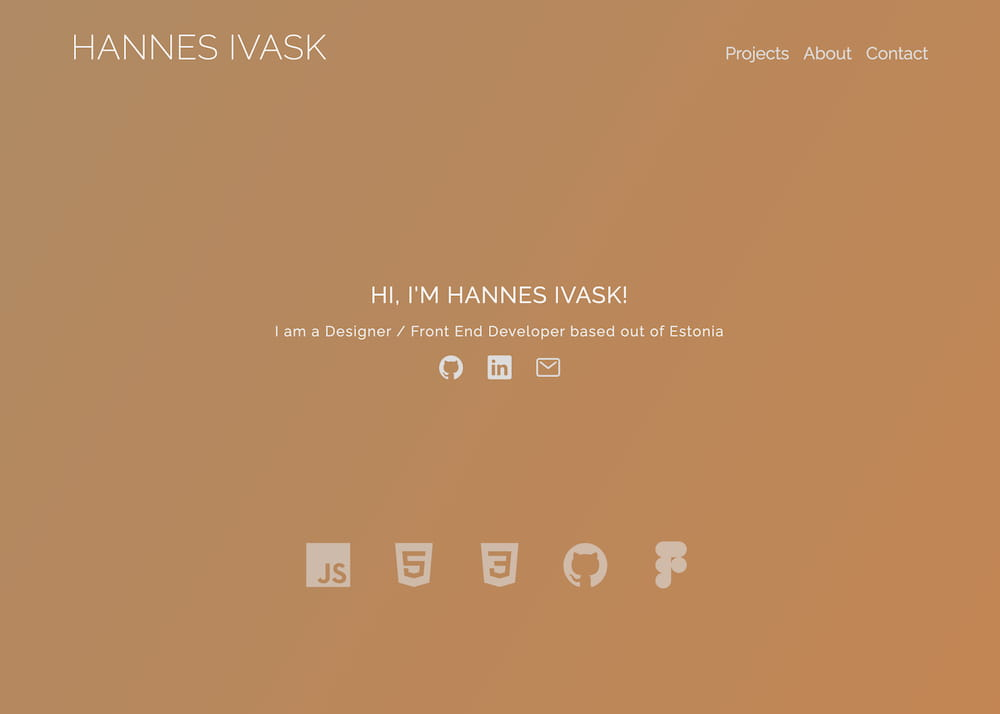
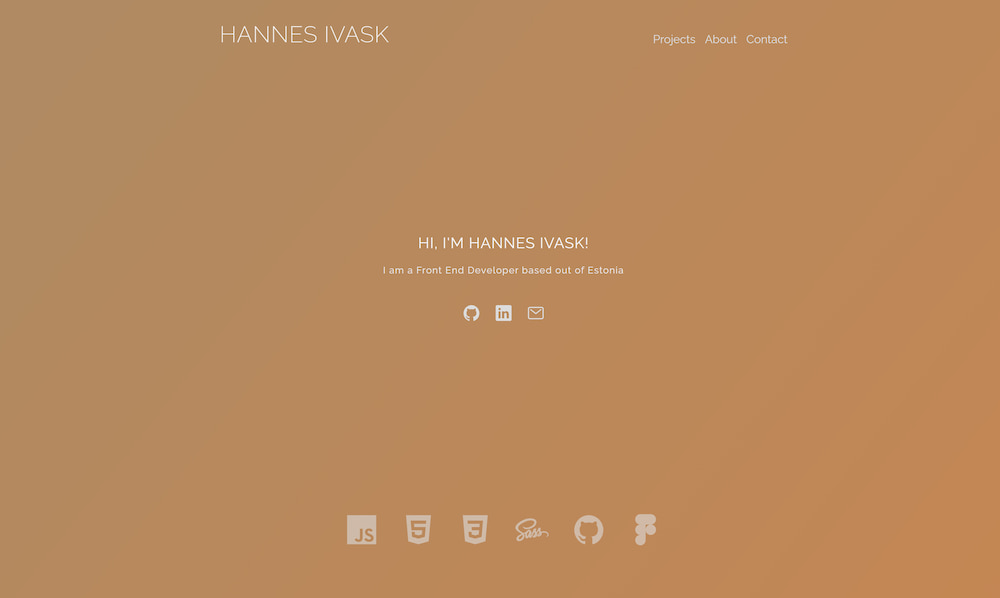
Update: Added components section

diff --git a/src/css/main.css b/src/css/main.css
@@ -38,9 +38,11 @@ $breakpoint argument choices:
   --color-gray-light-2: #eee;
   --color-gray-light-3: #ddd;
   --color-gray-light-4: #ccc;
+  --color-transparent-white: rgba(247, 247, 247, 0.9);
   --font-size-default: 1.6rem;
   --border-radius-circle: 50%;
   --border-radius-small: 0.3rem;
+  --border-radius-medium: 1rem;
   --border-radius-huge: 50rem;
   --box-shadow-tiny: 0 1rem 4rem rgba(0, 0, 0, 0.1);
   --box-shadow-small: 0 1rem 3rem rgba(0, 0, 0, 0.15);
@@ -127,7 +129,7 @@ body {
 }
 
 .u-margin-bottom-medium {
-  margin-bottom: 5rem !important;
+  margin-bottom: 7.4rem !important;
 }
 
 .u-margin-bottom-medium-big {
@@ -197,6 +199,7 @@ body {
 }
 
 .project-box {
+  position: relative;
   display: flex;
   overflow: hidden;
   width: 100%;
@@ -206,10 +209,10 @@ body {
   box-shadow: var(--box-shadow-tiny);
   animation: gradient 15s ease infinite;
   padding: 5rem;
-  border-radius: 1rem;
+  border-radius: -var(--border-radius-medium);
 }
 .project-box:not(:last-child) {
-  margin-bottom: 15rem;
+  margin-bottom: 10rem;
 }
 .project-box__link {
   width: 50%;
@@ -246,6 +249,19 @@ body {
     text-align: center;
     gap: 1rem;
   }
+}
+.project-box__label {
+  position: absolute;
+  z-index: 100;
+  top: 0;
+  left: 0;
+  background-color: var(--color-transparent-white);
+  padding: 1.6rem 6.8rem;
+  font-size: 1.4rem;
+  letter-spacing: 1.2px;
+  text-transform: uppercase;
+  color: var(--color-gray-dark-1);
+  transform: translate(-25%, 100%) rotate(-45deg);
 }
 
 .info-box {
@@ -291,6 +307,7 @@ body {
   height: 3.4rem;
   width: 3.4rem;
   color: var(--color-gray-light-3);
+  transition: all 0.3s;
 }
 .icon-box__icon:hover {
   color: var(--color-gray-light-1);
@@ -301,6 +318,42 @@ body {
     margin-top: 3rem;
     justify-content: center;
   }
+}
+
+.carousel {
+  display: flex;
+  justify-content: center;
+}
+
+.card {
+  background-color: var(--color-black);
+  border-radius: var(--border-radius-medium);
+  max-width: 75rem;
+  display: flex;
+  flex-direction: column;
+  gap: 3rem;
+  padding: 3rem;
+}
+.card__link {
+  display: inline-block;
+  width: 100%;
+  overflow: hidden;
+  border-radius: var(--border-radius-medium);
+}
+.card__image {
+  width: 100%;
+  height: 100%;
+  -o-object-fit: contain;
+     object-fit: contain;
+}
+.card .info-box {
+  width: 100%;
+  display: flex;
+  flex-direction: column;
+}
+.card .icon-box {
+  margin-top: 5rem;
+  justify-content: center;
 }
 
 .header {
@@ -399,4 +452,9 @@ body {
   .section-projects {
     text-align: center;
   }
+}
+
+.section-components {
+  max-width: 120rem;
+  margin: 0 auto;
 }/*# sourceMappingURL=main.css.map */

diff --git a/index.html b/index.html
@@ -82,9 +82,10 @@
     </section>
 
     <section id="section-projects" class="section-projects u-margin-bottom-big">
-      <h1 class="heading-primary u-margin-bottom-medium">Projects</h1>
+      <h1 class="heading-secondary u-margin-bottom-medium">Projects</h1>
 
       <div class="project-box">
+        <span class="project-box__label">Under Development</span>
         <a href="#" class="project-box__link">
           <img
             src="src/img/screenshot-project-2-small.jpg"
@@ -146,6 +147,51 @@
             <ion-icon class="icon-box__icon" name="logo-sass"></ion-icon>
             <ion-icon class="icon-box__icon" name="logo-html5"></ion-icon>
             <ion-icon class="icon-box__icon" name="logo-css3"></ion-icon>
+          </div>
+        </div>
+      </div>
+    </section>
+
+    <section
+      id="section-components"
+      class="section-components u-margin-bottom-big"
+    >
+      <h1 class="heading-secondary u-margin-bottom-medium">
+        Small projects & components
+      </h1>
+
+      <div class="carousel">
+        <div class="card">
+          <a href="#" class="card__link">
+            <img
+              src="src/img/screenshot-project-1-small.jpg"
+              alt="A screenshot of the Cinedo page"
+              class="card__image"
+            />
+          </a>
+          <div class="info-box">
+            <h3 class="info-box__title heading-tertiary">Cinedo</h3>
+            <p class="info-box__text paragraph">
+              Created this movie database app with vanilla JavaScript and the
+              TMDB API to better understand the inner workings of JavaScript and
+              to practice working with APIs in JavaScript
+            </p>
+            <a
+              href="https://github.com/hannesivask/cinedo"
+              target="_blank"
+              class="info-box__link"
+              ><ion-icon class="info-box__icon" name="logo-github"></ion-icon
+              >Check it out on github</a
+            >
+            <div class="icon-box">
+              <ion-icon
+                class="icon-box__icon"
+                name="logo-javascript"
+              ></ion-icon>
+              <ion-icon class="icon-box__icon" name="logo-html5"></ion-icon>
+              <ion-icon class="icon-box__icon" name="logo-css3"></ion-icon>
+              <!-- <ion-icon class="icon-box__icon" name="logo-sass"></ion-icon> -->
+            </div>
           </div>
         </div>
       </div>

diff --git a/src/scss/components/_project-box.scss b/src/scss/components/_project-box.scss
@@ -1,4 +1,5 @@
 .project-box {
+  position: relative;
   display: flex;
   overflow: hidden;
   width: 100%;
@@ -11,10 +12,10 @@
 
   animation: gradient 15s ease infinite;
   padding: 5rem;
-  border-radius: 1rem;
+  border-radius: -var(--border-radius-medium);
 
   &:not(:last-child) {
-    margin-bottom: 15rem;
+    margin-bottom: 10rem;
   }
 
   &__link {
@@ -52,6 +53,20 @@
     padding: 2rem;
     text-align: center;
     gap: 1rem;
+  }
+
+  &__label {
+    position: absolute;
+    z-index: 100;
+    top: 0;
+    left: 0;
+    background-color: var(--color-transparent-white);
+    padding: 1.6rem 6.8rem;
+    font-size: 1.4rem;
+    letter-spacing: 1.2px;
+    text-transform: uppercase;
+    color: var(--color-gray-dark-1);
+    transform: translate(-25%, 100%) rotate(-45deg);
   }
 }
 
@@ -106,6 +121,8 @@
     height: 3.4rem;
     width: 3.4rem;
     color: var(--color-gray-light-3);
+
+    transition: all 0.3s;
 
     &:hover {
       color: var(--color-gray-light-1);

diff --git a/src/scss/components/_card.scss b/src/scss/components/_card.scss
@@ -1,0 +1,33 @@
+.card {
+  background-color: var(--color-black);
+  border-radius: var(--border-radius-medium);
+  max-width: 75rem;
+  display: flex;
+  flex-direction: column;
+  gap: 3rem;
+  padding: 3rem;
+
+  &__link {
+    display: inline-block;
+    width: 100%;
+    overflow: hidden;
+    border-radius: var(--border-radius-medium);
+  }
+
+  &__image {
+    width: 100%;
+    height: 100%;
+    object-fit: contain;
+  }
+
+  & .info-box {
+    width: 100%;
+    display: flex;
+    flex-direction: column;
+  }
+
+  .icon-box {
+    margin-top: 5rem;
+    justify-content: center;
+  }
+}

diff --git a/src/scss/abstracts/_variables.scss b/src/scss/abstracts/_variables.scss
@@ -32,6 +32,8 @@
   --color-gray-light-3: #ddd;
   --color-gray-light-4: #ccc;
 
+  --color-transparent-white: rgba(247, 247, 247, 0.9);
+
   // TYPOGRAPHY
   --font-size-default: 1.6rem;
 
@@ -39,6 +41,7 @@
   --border-radius-circle: 50%;
 
   --border-radius-small: 0.3rem;
+  --border-radius-medium: 1rem;
   --border-radius-huge: 50rem;
 
   // BOX-SHADOW

diff --git a/src/scss/main.scss b/src/scss/main.scss
@@ -10,6 +10,8 @@
 @import "components/contact-box";
 @import "components/stack-box";
 @import "components/project-box";
+@import "components/carousel";
+@import "components/card";
 
 @import "layout/grid";
 @import "layout/header";

diff --git a/src/scss/base/_utilities.scss b/src/scss/base/_utilities.scss
@@ -3,7 +3,7 @@
 }
 
 .u-margin-bottom-medium {
-  margin-bottom: 5rem !important;
+  margin-bottom: 7.4rem !important;
 }
 
 .u-margin-bottom-medium-big {

diff --git a/src/scss/pages/_home.scss b/src/scss/pages/_home.scss
@@ -30,3 +30,8 @@
     text-align: center;
   }
 }
+
+.section-components {
+  max-width: 120rem;
+  margin: 0 auto;
+}

diff --git a/src/scss/components/_carousel.scss b/src/scss/components/_carousel.scss
@@ -1,0 +1,4 @@
+.carousel {
+  display: flex;
+  justify-content: center;
+}
